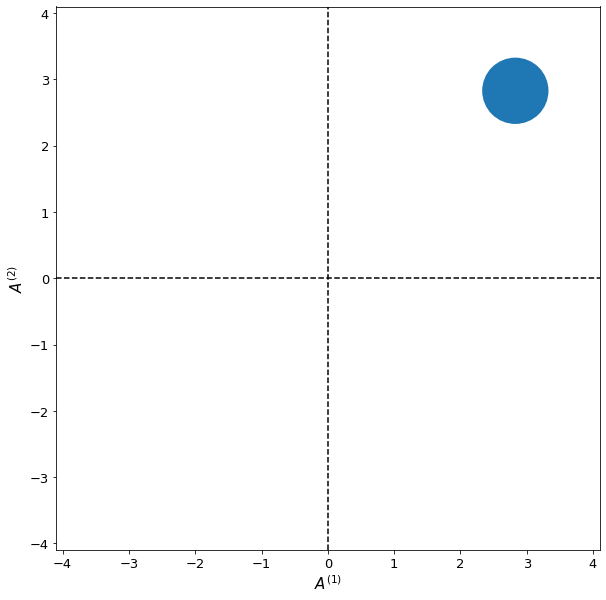
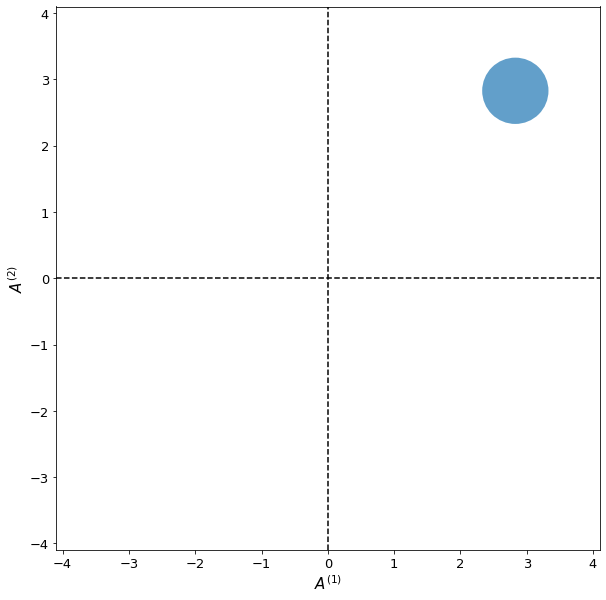
Update documentation

Changed region(s): [[0.7723, 0.09, 0.9208, 0.21]]

diff --git a/searchindex.js b/searchindex.js
@@ -1,1 +1,1 @@
-Search.setIndex({docnames:["chapter-XX-quantum-information","chapter-XX-quantum-optics-basics","intro"],envversion:{"sphinx.domains.c":2,"sphinx.domains.changeset":1,"sphinx.domains.citation":1,"sphinx.domains.cpp":4,"sphinx.domains.index":1,"sphinx.domains.javascript":2,"sphinx.domains.math":2,"sphinx.domains.python":3,"sphinx.domains.rst":2,"sphinx.domains.std":2,"sphinx.ext.intersphinx":1,"sphinxcontrib.bibtex":9,sphinx:56},filenames:["chapter-XX-quantum-information.ipynb","chapter-XX-quantum-optics-basics.md","intro.md"],objects:{},objnames:{},objtypes:{},terms:{"0":0,"00":0,"000":0,"0001":[],"001":0,"002":[],"005":[],"00_a":0,"01":0,"010":0,"011":0,"01_a":0,"05":[],"054e":0,"08":[],"0_a":0,"0_b":0,"0e":[],"0j":[],"1":1,"10":[0,1],"100":0,"1000":[0,1],"101":0,"1068636":[],"10938188e":0,"10_a":0,"11":0,"110":0,"1109":[],"111":0,"119":0,"11_a":0,"12":[],"13":1,"14":0,"1440x252":[],"15":1,"159":[],"168":[],"18":[],"180":[],"19":0,"1975":[],"1998":[],"1_a":0,"1_b":0,"1e":[],"1j":[],"2":1,"20":0,"200":[],"2000":[0,1],"21":[],"22":0,"25":1,"2944":[],"2i":1,"2n":1,"30":[],"31":0,"32":0,"323":[],"330":[],"34":0,"360":[],"4":1,"40000":[],"45":0,"4500":0,"5":1,"50":0,"500":0,"55":1,"6":[],"602e":0,"686719":[],"7":0,"891389":1,"9":0,"91699832":0,"99":[],"99792458e8":0,"byte":0,"case":[0,1],"class":0,"default":0,"do":[0,1],"export":0,"final":[0,1],"function":1,"import":[0,1],"int":[],"long":[0,1],"new":0,"public":0,"return":[],"short":[],"static":[],"true":[],"try":0,"while":1,A:[0,1],As:1,At:1,By:1,For:[0,1],IS:0,If:[0,1],In:[0,1],It:[0,1],NOT:0,No:0,On:[],One:[0,1],Such:1,THE:0,THERE:0,TO:0,That:1,The:[0,2],Then:[0,1],These:[0,1],To:0,_a:1,_b:1,_l:1,_m:1,_n:1,a0:[],a0_f:[],a1:1,a2:1,a_curr:[],a_f:[],a_m1:[],a_m1_pp:[],a_out:[],ab:0,about:[0,1],abov:[0,1],absorpt:[],access:0,account:1,achiev:[0,1],acousto:[],act:1,activ:[],active_ml:[],ad:[0,1],adagg:[],adagger_m:1,add:1,add_patch:1,add_subplot:1,add_trac:[],addit:1,adjust:[],advantag:1,after:0,again:[0,1],against:0,agre:0,ahat:[],ahat_m:1,alic:0,all:[0,1],allow:[0,1],along:[0,1],alreadi:0,also:[0,1],alwai:1,among:1,amound:[],amount:1,amplif:[],amplifi:[],amplitud:1,an:[0,1],analog:0,angel:0,angl:1,angular:1,ani:[0,1],anim:0,annihil:[],anoth:0,anyth:0,append:[],appli:0,applic:[0,1],approach:1,approx:0,approxim:[],ar:[0,1],arb:[],arctan2:[],arg:1,aris:1,arrai:0,arriv:1,artifici:[],asid:[],aspect:[],assign:[],assum:0,assumpt:[],atemp_f:[],atom:0,attent:1,au:[],auto:[],avail:[],averag:1,awai:[],ax1:[],ax2:[],ax3:[],ax:1,ax_amp:[],ax_gain:[],ax_phas:[],ax_tim:[],axhlin:1,axi:1,axvlin:[0,1],b:[0,1],back:0,balanc:[],band:[],bandpass:[],bandwdith:[],bandwidth:[],base:[],baselin:[],baseline_phas:[],basi:0,basic:2,beamsplitt:0,becaus:0,becom:[],been:[0,1],befor:1,begin:0,being:[],bell:0,below:[0,1],beta2:[],beta3:[],beta_:0,better:0,between:[0,1],big:0,bigg:[0,1],bigotim:0,binomi:0,bit:[],black:1,blit:[],block:0,blue:1,bob:0,book:[1,2],both:[0,1],bottom:[],bra:[0,1],braket:[],brief:[],broad:[],build:[],button:[],c:[0,1],c_0:0,c_1:0,c_:0,c_i:0,ca:1,calcul:1,call:0,cambridg:0,can:[0,1],cannot:1,care:[],carri:1,carrier:[],categori:[],caus:0,caviti:[],cell:[],center:1,central:[],certain:0,certainli:[0,1],challeng:0,chanc:0,chang:0,channel:0,chapter:[1,2],charg:0,check:0,chemic:[],choic:0,chose:0,chosen:[],chuang:0,circ:0,circl:[0,1],circuit:0,circular:[0,1],citi:0,cla:[],classic:[0,1],clearli:0,clearr:[],clockwis:1,close:[],cn:0,co:[0,1],code:0,coeff:[],coeffici:0,coherr:1,colab:0,collect:[],color:[0,1],colorbar:[],column:[],comb:[],come:0,commun:0,commut:1,compar:[0,1],complet:0,complex:[0,1],complimentari:0,compon:1,comput:[0,1],concept:[0,1],concern:1,condit:[0,1],configur:1,consequ:0,consid:[0,1],consist:[0,1],constant:0,construct:0,constructur:1,contain:[0,1],continu:0,contribut:[],control:0,conveni:[0,1],converg:[],convers:0,convert:[],copi:0,core:0,correct:[],correl:0,correspond:0,cost:[],could:0,counter:1,coupl:1,cours:[0,1,2],cover:[0,2],creat:0,creation:[],critic:1,crucial:0,cryptographi:0,cs:0,current:1,cursor:[],d:0,dagger:[],deal:[0,1],decreas:1,deeper:1,def:[],defin:1,definit:1,degre:0,dela1:1,dela2:1,dela:1,delai:1,delta:1,demosntr:[],denot:[],depend:[],der:[],deriv:[],describ:1,descript:[],design:1,desir:[],despit:1,destroi:0,detail:[0,1],detect:0,detector:0,determin:1,develop:1,devic:[],dictat:[],did:0,didn:0,diff:[],differ:0,difficulti:0,dimension:1,directli:1,discret:0,discuss:[0,1],dispers:[],displai:[0,1],distinguish:1,distribut:[0,1],doe:[0,1],doesn:0,doi:[],domain:0,don:[],done:[0,1],doubl:0,down:[],drawn:1,drive:0,driven:[],dt:[],due:1,durat:0,dure:0,dz:[],e:[0,1],e_envelop:[],each:[0,1],earli:0,easi:1,easili:1,eavesdrop:0,ec:1,edit:1,eec:2,effect:[],effici:0,eighti:0,either:[0,1],electr:1,electro:[],electromagnet:1,electron:0,element:[],ellips:1,elmeent:[],els:[],emploi:0,en:[],enabl:[0,1],encod:0,encourag:0,end:0,energi:1,engin:1,enough:0,ensur:0,entangl:[],entropi:0,envelop:[],environ:0,eqnarrai:0,equal:[0,1],equat:0,error:[],essenti:0,eta:0,etc:[0,1],ev:0,evcon:0,even:0,ever:1,everi:[],evolut:[],evolv:[],examin:[],exampl:[0,1],exce:[],except:0,execut:[],exercis:1,exhibit:1,exist:[],exp:[],expand:[0,1],expect:1,experiment:0,explain:0,exploit:[],explor:0,exponenti:0,express:1,extend:0,extent:[],extern:[],extra:[],f:[],fabri:[],fact:1,factor:0,fail:0,fals:[0,1],fast_sa_ml:[],faster:0,favor:[],feedback:[],femtosecond:[],few:0,feynman:0,fft:[],fftfreq:[],fftshift:[],fiber:0,field:[],fig:[0,1],figur:[0,1],fill:[],filter:[],find:0,fine:[],first:[0,1],fix:[],fixm:0,flip:0,floattext:[],floor:1,fluctiat:[],fluction:1,fluctuat:1,fly:0,focu:1,focus:1,follow:[0,1],fontsiz:[0,1],forc:[],form:[0,1],foruml:[],forward:[],found:[0,1],four:0,fourier:[],frac:[0,1],frang:[],free:0,freespac:0,frequenc:1,from:[0,1],fs:[],full:0,funcanim:[],fundament:0,further:[],furthermor:0,fwhm:[],g0:[],g:[0,1],g_0:[],gamma:[],gate:[],gaussian:[],gaussian_puls:[],gca:1,gener:1,get:[],get_ax:[],give:0,given:[0,1],glue:1,go:[0,1],goal:[],goe:0,good:0,googl:0,graph_object:[],grid:[],gvd:[],h5py:0,h:0,ha:[0,1],hadamard:0,half:0,hand:1,happen:[0,1],hard:0,harmon:[],hat:[],hau:[],have:[0,1],hbar:[0,1],header:[],heard:1,height:1,help:[],her:0,here:[0,1,2],hidden:0,high:[],higher:[],horizont:1,how:[0,1],howev:[0,1],html:0,http:[],hundr:[],hwp:0,i:[0,1],i_:[],i_sat:[],idea:0,ieee:[],ifft:[],ignor:[],illustr:0,impact:[],imped:0,imperfect:0,implement:0,impli:1,importantli:0,impract:0,improv:0,imshow:[],incid:[],includ:[0,2],inclus:[],incorpor:[],increas:1,index:[],ineffici:[],infin:[],infinit:[0,1],inform:1,infrom:0,initi:[],input:[0,1],insid:[],instal:0,instanc:[0,1],instantan:[],instead:[],int_:[],integr:[],intend:1,interact:0,interest:1,interfer:1,interpol:0,interv:0,intiial:[],intrins:1,introduc:1,introduct:[],inttext:[],intuit:[],involv:0,ipython:0,ipywidget:0,isbn:1,issu:[],iter:[],its:1,itself:1,j:0,javascript:0,john:1,joint:0,jone:0,journal:[],jqe:[],jul:[],just:[0,1],k:[0,1],kartner:[],keep:0,kei:0,keller:[],ket:0,kg:0,kind:1,know:[0,1],knowledg:0,known:[],l:0,label:[0,1],labels:[0,1],laboratori:0,langl:1,larg:1,laser:1,last:1,later:0,latex:[],launcher:0,lbrace:[0,1],ldot:1,lead:[],learn:0,leav:[0,1],left:1,legend:[0,1],len:[0,1],length:[],leq:[],let:[0,1],level:[0,1],leverag:1,life:[],light:[0,1],like:0,likewis:1,limit:1,line:[],line_gain:[],linear:[0,1],linestyl:[0,1],linewidth:0,link:0,linspac:[0,1],list:2,littl:0,ll:0,lo:0,locat:0,lock:[],log:[],log_2:0,look:[0,1],loop:[],loss:[],lossi:0,low:[],m:[0,1],m_:0,magnet:0,major:0,make:[0,1],mani:[0,1],manual:[],map:1,mar:[],mark:1,markerlin:[],markerline_phas:[],mass:0,master:[],materi:[0,1],mathbf:1,mathematica:0,mathrm:0,matplotlib:[0,1],matrix:0,matter:1,max:[],maxim:0,me:0,measur:[0,1],mechan:1,medium:[],memori:0,mental:[],messag:0,micron:[],middl:[],might:1,minimum:[],mirror:[],miss:0,mm:[],mod:[],mode:0,model:[],modern:1,modif:[],modul:[],more:[0,1],most:1,mostli:0,move:[0,1],movi:[],mpatch:1,multipli:1,must:0,myst_nb:1,n2:[],n:0,n_out:[],n_plot:[],n_save:[],n_sell:[],name:1,nanosecond:[],natur:[],nearli:[],necessarili:1,need:0,neighbor:[],net:1,nevertheless:0,newcommand:[],nielsen:0,nlse:[],nois:[0,1],noisi:0,none:1,nonlinear:[],normal:[0,1],notat:[0,1],note:[0,1],notebook:0,noth:1,now:[0,1],np:[0,1],nt:[],nt_r:[],nucleu:0,number:0,numer:[],numpi:[0,1],nz:[],o:[],obtain:[0,1],occur:0,odd:1,offset:1,often:1,ohm:0,omega:1,omega_g:[],omega_m:[],on_click:[],onc:0,one:[0,1],ones:[],onli:[0,1],onto:1,open:0,oper:0,opposit:1,optic:[0,2],optim:[],order:1,org:[],orient:0,origin:0,orthogon:0,oscil:1,other:[0,1],our:[0,1],out:1,outcom:0,output:1,over:[0,1],overcom:0,overview:1,own:[],p:0,p_0:0,p_1:0,p_2:0,p_3:0,p_:0,p_fail_1:0,p_fail_3:0,p_i:0,pair:0,parabol:[],parabola:[],paramet:[],part:1,partial:[],particl:0,particular:[0,1],pasadena:0,pass:[],past:1,patch:1,path:0,peak:[],per:1,perfectli:0,perform:1,period:[],perot:[],person:0,perturb:0,phase:[0,1],phi:[0,1],phi_c:[],photon:0,physic:[0,1],phz:[],pi:[0,1],pictur:[],place:[],plai:[],planck:0,plate:0,platform:1,plot:[0,1],plotli:[],plt:[0,1],pm:0,pmatrix:0,point:[0,1],poisson:1,polar:[0,1],popul:[0,1],possess:0,possibl:[0,1],possit:0,potenti:0,power:0,pp:[],precis:1,preferenti:[],presenc:0,present:1,press:0,prevent:[],previou:[],primari:0,principl:0,prior:[],probabilti:0,probabl:0,proce:[],procedur:0,process:0,produc:0,product:0,profici:1,profil:[],progress:0,project:[0,1],projector:0,propag:[],properti:0,propos:0,propto:[],protect:0,protocol:0,provid:1,psi:[0,1],psi_1:0,psi_2:0,psi_3:0,psi_4:0,psi_:[0,1],psi_i:0,psi_m:1,publish:[],pure:1,purpos:0,push:[],put:1,pyplot:[0,1],quadratur:1,quantiti:1,quantiz:1,quantum:[],question:1,quick:1,quit:1,r:[],rad:[],radialaxis_rang:[],radiat:[],radiu:[],rand:[],random:1,rang:0,rangl:1,rate:[],rather:[],ratio:1,rbrace:[0,1],rc:0,re:0,real:[0,1],realist:[],reason:[],recal:0,receiv:1,recit:0,recommend:[],record:[],recov:0,red:1,reduc:1,reduct:1,redund:0,ref:1,refer:0,reflect:[],regener:[],region:1,regist:0,rel:0,relat:[0,1],reliabl:0,remark:[],rememb:1,repeat:[],repetit:[],repres:[0,1],represenat:1,represent:1,requir:[0,1],reson:[],respect:1,respons:[],restor:0,result:[0,1],review:1,richard:0,right:1,rightarrow:0,rigor:1,rotat:0,round:[],row:[],run:0,s0:[],s:[0,1],s_0:[],sai:[0,1],said:[],same:[0,1],sampl:[],sat:[],satyur:[],sausalito:1,scale:[],scatterpolar:[],scheme:0,scienc:1,scipi:0,script:[],second:[],section:0,secur:1,see:[0,1],seed:[],seem:0,seen:1,self:[],sellmeier:[],sellmeier_equ:[],send:0,sensit:1,seriou:0,set:[0,1],set_aspect:1,set_size_inch:[0,1],set_titl:[],set_xlabel:1,set_xlim:1,set_ylabel:1,set_ylim:1,settl:[],setup:0,sever:1,shannon:0,shape:[],share:0,she:0,shoot:[],shorter:[],should:[0,1],show:[0,1],side:[],sift:0,signal:[0,1],similar:[],simpl:[0,1],simplest:[],simpli:1,simplifi:[],simul:0,sin:[0,1],sinc:0,singl:1,sinusoid:[],sit:0,size:[],slightli:0,slow:[],slowli:[],small:[],so:[0,1],solid:0,solut:[],solv:[],some:0,sourc:0,space:0,span:[],spatial:[],specif:0,spectra:[],speed:0,spin:0,split:[],split_step:[],spuriou:[],sql:1,sqrt:[0,1],squeezed_field_fluctu:1,stabil:[],stabilti:0,stai:1,standar:1,start:[],state:0,statist:[0,1],steadi:[],stem:[],stemlin:[],stemline_phas:[],step:[],still:[0,1],store:0,str:[],strenght:[],strength:[0,1],string:0,strong:1,studi:0,subject:[0,2],suffic:0,sum_:0,sum_i:0,sum_n:1,sum_x:0,sumat:[],summat:1,support:[],suppos:0,sure:0,surfac:1,synchron:[],system:[0,1],system_set:[],system_set_fast_sa:[],t:0,t_r:[],tab:1,take:[0,1],tau:[],taught:1,techniqu:0,teleport:[],tell:0,tempor:[],temporarili:[],ten:[],tera:0,term:0,tese:[],text:[0,1,2],textbook:1,th:[0,1],than:[0,1],thei:[0,1],theori:0,therefor:0,thermal:[],theta:[0,1],thi:[0,1,2],thing:1,think:[],those:[0,1],though:0,thousand:[],three:0,through:[0,1],throughout:1,thu:[0,1],tick_param:[0,1],time:[0,1],times2:0,timescal:[],to_jshtml:[],tod:[],togeth:1,tool:0,top:0,topic:[0,2],toself:[],townsend:1,trace:[],track:[],tracker:[],train:[],transfer:0,transform:0,transmit:1,trapz:[],treatment:1,trip:[],tukei:[],turn:1,tweak:0,two:1,tyical:[],typic:[],u:0,ubiquit:1,ultim:[],ultrafast:[],uncertainti:[0,1],uncorrel:0,under:[],underli:[],understand:1,uniformli:[],uniqu:0,unit:0,univ:0,univariatesplin:0,univers:[0,1],unknown:0,unlik:1,unlock:[],unphys:[],unrestrict:1,unsatur:[],unstabl:[],until:[],up:[],updat:0,update_polar:[],updatefig:[],us:[0,1],use_line_collect:[],uu:0,v:0,vacuum:[],valu:[0,1],vari:1,variabl:1,varianc:1,varieti:1,variou:1,variousu:[],varphi:1,vector:1,veri:1,vertic:1,violat:0,visibl:0,visual:1,vol:[],vote:0,vs:[],vv:0,w:[],w_:[],w_puls:[],w_sat:[],wa:0,wai:[0,1],want:0,want_export:0,watch:[],wave:[0,1],wavelength:[],wc:[],we:[0,1],well:[0,1],were:0,what:[0,1],when:[0,1],where:[0,1],whether:0,which:[0,1],who:1,whose:1,why:[],width:1,wiki:[],wikipedia:[],wildli:1,window:[],within:1,without:[],work:[0,1],world:1,would:[0,1],wouldn:[],wrap:[],written:[0,1],x:[0,1],x_i:0,xlabel:0,xlim:[],xx:2,y:[0,1],y_valid:[],ylabel:0,ylim:[],york:0,you:[0,1],your:0,yy:0,z:0,zero:1,zx:0},titles:["Chapter XX \u2013 Quantum Information","The Basics of Quantum Optics","6.157 \u2013 Laboratory for Quantum Information Science and Engineering"],titleterms:{"0":1,"1":0,"157":2,"2":0,"3":0,"4":0,"5":0,"6":2,"final":[],"function":0,The:1,Their:1,With:0,absorb:[],activ:[],adagg:1,adjust:[],ahat:1,alpha:1,an:[],anim:[],annihil:1,base:0,basic:1,bit:0,cell:[],chapter:0,cnot:0,coher:1,common:1,content:2,correct:0,creation:1,deviat:1,domain:[],dynam:[],engin:2,entangl:0,error:0,exampl:[],fast:[],field:1,format:[],gain:[],gate:0,hat:1,header:[],inform:[0,2],intens:[],introduct:[],ket:1,lab:[],laboratori:2,latex:[],lock:[],look:[],mean:1,mode:1,n:1,number:1,observ:1,oper:1,optic:1,output:[],packag:0,passiv:[],phase:[],photon:1,point:[],properti:1,puls:[],qkd:0,quantum:[0,1,2],qubit:0,refer:1,run:[],satur:[],scienc:2,select:[],set:[],singl:0,spectral:[],spectrum:[],squeez:1,stabl:[],standard:1,state:1,system:[],tabl:2,teleport:0,time:[],two:0,type:1,vacuum:1,variabl:0,width:[],without:0,xx:0}})
+Search.setIndex({docnames:["chapter-XX-quantum-information","chapter-XX-quantum-optics-basics","intro"],envversion:{"sphinx.domains.c":2,"sphinx.domains.changeset":1,"sphinx.domains.citation":1,"sphinx.domains.cpp":4,"sphinx.domains.index":1,"sphinx.domains.javascript":2,"sphinx.domains.math":2,"sphinx.domains.python":3,"sphinx.domains.rst":2,"sphinx.domains.std":2,"sphinx.ext.intersphinx":1,"sphinxcontrib.bibtex":9,sphinx:56},filenames:["chapter-XX-quantum-information.ipynb","chapter-XX-quantum-optics-basics.md","intro.md"],objects:{},objnames:{},objtypes:{},terms:{"0":0,"00":0,"000":0,"0001":[],"001":0,"002":[],"005":[],"00_a":0,"01":0,"010":0,"011":0,"01_a":0,"05":[],"054e":0,"08":[],"0_a":0,"0_b":0,"0e":[],"0j":[],"1":1,"10":[0,1],"100":0,"1000":[0,1],"101":0,"1068636":[],"10938188e":0,"10_a":0,"11":0,"110":0,"1109":[],"111":0,"119":0,"11_a":0,"12":[],"13":1,"14":0,"1440x252":[],"15":1,"159":[],"168":[],"18":[],"180":[],"19":0,"1975":[],"1998":[],"1_a":0,"1_b":0,"1e":[],"1j":[],"2":1,"20":0,"200":[],"2000":[0,1],"21":[],"22":0,"25":1,"2944":[],"2i":1,"2n":1,"30":[],"31":0,"32":0,"323":[],"330":[],"34":0,"360":[],"4":1,"40000":[],"45":0,"4500":0,"5":1,"50":0,"500":0,"55":1,"6":[],"602e":0,"686719":[],"7":[0,1],"891389":1,"9":0,"91699832":0,"99":[],"99792458e8":0,"byte":0,"case":[0,1],"class":0,"default":0,"do":[0,1],"export":0,"final":[0,1],"function":1,"import":[0,1],"int":[],"long":[0,1],"new":0,"public":0,"return":[],"short":[],"static":[],"true":[],"try":0,"while":1,A:[0,1],As:1,At:1,By:1,For:[0,1],IS:0,If:[0,1],In:[0,1],It:[0,1],NOT:0,No:0,On:[],One:[0,1],Such:1,THE:0,THERE:0,TO:0,That:1,The:[0,2],Then:[0,1],These:[0,1],To:0,_a:1,_b:1,_l:1,_m:1,_n:1,a0:[],a0_f:[],a1:1,a2:1,a_curr:[],a_f:[],a_m1:[],a_m1_pp:[],a_out:[],ab:0,about:[0,1],abov:[0,1],absorpt:[],access:0,account:1,achiev:[0,1],acousto:[],act:1,activ:[],active_ml:[],ad:[0,1],adagg:[],adagger_m:1,add:1,add_patch:1,add_subplot:1,add_trac:[],addit:1,adjust:[],advantag:1,after:0,again:[0,1],against:0,agre:0,ahat:[],ahat_m:1,alic:0,all:[0,1],allow:[0,1],along:[0,1],alreadi:0,also:[0,1],alwai:1,among:1,amound:[],amount:1,amplif:[],amplifi:[],amplitud:1,an:[0,1],analog:0,angel:0,angl:1,angular:1,ani:[0,1],anim:0,annihil:[],anoth:0,anyth:0,append:[],appli:0,applic:[0,1],approach:1,approx:0,approxim:[],ar:[0,1],arb:[],arctan2:[],arg:1,aris:1,arrai:0,arriv:1,artifici:[],asid:[],aspect:[],assign:[],assum:0,assumpt:[],atemp_f:[],atom:0,attent:1,au:[],auto:[],avail:[],averag:1,awai:[],ax1:[],ax2:[],ax3:[],ax:1,ax_amp:[],ax_gain:[],ax_phas:[],ax_tim:[],axhlin:1,axi:1,axvlin:[0,1],b:[0,1],back:0,balanc:[],band:[],bandpass:[],bandwdith:[],bandwidth:[],base:[],baselin:[],baseline_phas:[],basi:0,basic:2,beamsplitt:0,becaus:0,becom:[],been:[0,1],befor:1,begin:0,being:[],bell:0,below:[0,1],beta2:[],beta3:[],beta_:0,better:0,between:[0,1],big:0,bigg:[0,1],bigotim:0,binomi:0,bit:[],black:1,blit:[],block:0,blue:1,bob:0,book:[1,2],both:[0,1],bottom:[],bra:[0,1],braket:[],brief:[],broad:[],build:[],button:[],c:[0,1],c_0:0,c_1:0,c_:0,c_i:0,ca:1,calcul:1,call:0,cambridg:0,can:[0,1],cannot:1,care:[],carri:1,carrier:[],categori:[],caus:0,caviti:[],cell:[],center:1,central:[],certain:0,certainli:[0,1],challeng:0,chanc:0,chang:0,channel:0,chapter:[1,2],charg:0,check:0,chemic:[],choic:0,chose:0,chosen:[],chuang:0,circ:0,circl:[0,1],circuit:0,circular:[0,1],citi:0,cla:[],classic:[0,1],clearli:0,clearr:[],clockwis:1,close:[],cn:0,co:[0,1],code:0,coeff:[],coeffici:0,coherr:1,colab:0,collect:[],color:[0,1],colorbar:[],column:[],comb:[],come:0,commun:0,commut:1,compar:[0,1],complet:0,complex:[0,1],complimentari:0,compon:1,comput:[0,1],concept:[0,1],concern:1,condit:[0,1],configur:1,consequ:0,consid:[0,1],consist:[0,1],constant:0,construct:0,constructur:1,contain:[0,1],continu:0,contribut:[],control:0,conveni:[0,1],converg:[],convers:0,convert:[],copi:0,core:0,correct:[],correl:0,correspond:0,cost:[],could:0,counter:1,coupl:1,cours:[0,1,2],cover:[0,2],creat:0,creation:[],critic:1,crucial:0,cryptographi:0,cs:0,current:1,cursor:[],d:0,dagger:[],deal:[0,1],decreas:1,deeper:1,def:[],defin:1,definit:1,degre:0,dela1:1,dela2:1,dela:1,delai:1,delta:1,demosntr:[],denot:[],depend:[],der:[],deriv:[],describ:1,descript:[],design:1,desir:[],despit:1,destroi:0,detail:[0,1],detect:0,detector:0,determin:1,develop:1,devic:[],dictat:[],did:0,didn:0,diff:[],differ:0,difficulti:0,dimension:1,directli:1,discret:0,discuss:[0,1],dispers:[],displai:[0,1],distinguish:1,distribut:[0,1],doe:[0,1],doesn:0,doi:[],domain:0,don:[],done:[0,1],doubl:0,down:[],drawn:1,drive:0,driven:[],dt:[],due:1,durat:0,dure:0,dz:[],e:[0,1],e_envelop:[],each:[0,1],earli:0,easi:1,easili:1,eavesdrop:0,ec:1,edit:1,eec:2,effect:[],effici:0,eighti:0,either:[0,1],electr:1,electro:[],electromagnet:1,electron:0,element:[],ellips:1,elmeent:[],els:[],emploi:0,en:[],enabl:[0,1],encod:0,encourag:0,end:0,energi:1,engin:1,enough:0,ensur:0,entangl:[],entropi:0,envelop:[],environ:0,eqnarrai:0,equal:[0,1],equat:0,error:[],essenti:0,eta:0,etc:[0,1],ev:0,evcon:0,even:0,ever:1,everi:[],evolut:[],evolv:[],examin:[],exampl:[0,1],exce:[],except:0,execut:[],exercis:1,exhibit:1,exist:[],exp:[],expand:[0,1],expect:1,experiment:0,explain:0,exploit:[],explor:0,exponenti:0,express:1,extend:0,extent:[],extern:[],extra:[],f:[],fabri:[],fact:1,factor:0,fail:0,fals:[0,1],fast_sa_ml:[],faster:0,favor:[],feedback:[],femtosecond:[],few:0,feynman:0,fft:[],fftfreq:[],fftshift:[],fiber:0,field:[],fig:[0,1],figur:[0,1],fill:[],filter:[],find:0,fine:[],first:[0,1],fix:[],fixm:0,flip:0,floattext:[],floor:1,fluctiat:[],fluction:1,fluctuat:1,fly:0,focu:1,focus:1,follow:[0,1],fontsiz:[0,1],forc:[],form:[0,1],foruml:[],forward:[],found:[0,1],four:0,fourier:[],frac:[0,1],frang:[],free:0,freespac:0,frequenc:1,from:[0,1],fs:[],full:0,funcanim:[],fundament:0,further:[],furthermor:0,fwhm:[],g0:[],g:[0,1],g_0:[],gamma:[],gate:[],gaussian:[],gaussian_puls:[],gca:1,gener:1,get:[],get_ax:[],give:0,given:[0,1],glue:1,go:[0,1],goal:[],goe:0,good:0,googl:0,graph_object:[],grid:[],gvd:[],h5py:0,h:0,ha:[0,1],hadamard:0,half:0,hand:1,happen:[0,1],hard:0,harmon:[],hat:[],hau:[],have:[0,1],hbar:[0,1],header:[],heard:1,height:1,help:[],her:0,here:[0,1,2],hidden:0,high:[],higher:[],horizont:1,how:[0,1],howev:[0,1],html:0,http:[],hundr:[],hwp:0,i:[0,1],i_:[],i_sat:[],idea:0,ieee:[],ifft:[],ignor:[],illustr:0,impact:[],imped:0,imperfect:0,implement:0,impli:1,importantli:0,impract:0,improv:0,imshow:[],incid:[],includ:[0,2],inclus:[],incorpor:[],increas:1,index:[],ineffici:[],infin:[],infinit:[0,1],inform:1,infrom:0,initi:[],input:[0,1],insid:[],instal:0,instanc:[0,1],instantan:[],instead:[],int_:[],integr:[],intend:1,interact:0,interest:1,interfer:1,interpol:0,interv:0,intiial:[],intrins:1,introduc:1,introduct:[],inttext:[],intuit:[],involv:0,ipython:0,ipywidget:0,isbn:1,issu:[],iter:[],its:1,itself:1,j:0,javascript:0,john:1,joint:0,jone:0,journal:[],jqe:[],jul:[],just:[0,1],k:[0,1],kartner:[],keep:0,kei:0,keller:[],ket:0,kg:0,kind:1,know:[0,1],knowledg:0,known:[],l:0,label:[0,1],labels:[0,1],laboratori:0,langl:1,larg:1,laser:1,last:1,later:0,latex:[],launcher:0,lbrace:[0,1],ldot:1,lead:[],learn:0,leav:[0,1],left:1,legend:[0,1],len:[0,1],length:[],leq:[],let:[0,1],level:[0,1],leverag:1,life:[],light:[0,1],like:0,likewis:1,limit:1,line:[],line_gain:[],linear:[0,1],linestyl:[0,1],linewidth:0,link:0,linspac:[0,1],list:2,littl:0,ll:0,lo:0,locat:0,lock:[],log:[],log_2:0,look:[0,1],loop:[],loss:[],lossi:0,low:[],m:[0,1],m_:0,magnet:0,major:0,make:[0,1],mani:[0,1],manual:[],map:1,mar:[],mark:1,markerlin:[],markerline_phas:[],mass:0,master:[],materi:[0,1],mathbf:1,mathematica:0,mathrm:0,matplotlib:[0,1],matrix:0,matter:1,max:[],maxim:0,me:0,measur:[0,1],mechan:1,medium:[],memori:0,mental:[],messag:0,micron:[],middl:[],might:1,minimum:[],mirror:[],miss:0,mm:[],mod:[],mode:0,model:[],modern:1,modif:[],modul:[],more:[0,1],most:1,mostli:0,move:[0,1],movi:[],mpatch:1,multipli:1,must:0,myst_nb:1,n2:[],n:0,n_out:[],n_plot:[],n_save:[],n_sell:[],name:1,nanosecond:[],natur:[],nearli:[],necessarili:1,need:0,neighbor:[],net:1,nevertheless:0,newcommand:[],nielsen:0,nlse:[],nois:[0,1],noisi:0,none:1,nonlinear:[],normal:[0,1],notat:[0,1],note:[0,1],notebook:0,noth:1,now:[0,1],np:[0,1],nt:[],nt_r:[],nucleu:0,number:0,numer:[],numpi:[0,1],nz:[],o:[],obtain:[0,1],occur:0,odd:1,offset:1,often:1,ohm:0,omega:1,omega_g:[],omega_m:[],on_click:[],onc:0,one:[0,1],ones:[],onli:[0,1],onto:1,open:0,oper:0,opposit:1,optic:[0,2],optim:[],order:1,org:[],orient:0,origin:0,orthogon:0,oscil:1,other:[0,1],our:[0,1],out:1,outcom:0,output:1,over:[0,1],overcom:0,overview:1,own:[],p:0,p_0:0,p_1:0,p_2:0,p_3:0,p_:0,p_fail_1:0,p_fail_3:0,p_i:0,pair:0,parabol:[],parabola:[],paramet:[],part:1,partial:[],particl:0,particular:[0,1],pasadena:0,pass:[],past:1,patch:1,path:0,peak:[],per:1,perfectli:0,perform:1,period:[],perot:[],person:0,perturb:0,phase:[0,1],phi:[0,1],phi_c:[],photon:0,physic:[0,1],phz:[],pi:[0,1],pictur:[],place:[],plai:[],planck:0,plate:0,platform:1,plot:[0,1],plotli:[],plt:[0,1],pm:0,pmatrix:0,point:[0,1],poisson:1,polar:[0,1],popul:[0,1],possess:0,possibl:[0,1],possit:0,potenti:0,power:0,pp:[],precis:1,preferenti:[],presenc:0,present:1,press:0,prevent:[],previou:[],primari:0,principl:0,prior:[],probabilti:0,probabl:0,proce:[],procedur:0,process:0,produc:0,product:0,profici:1,profil:[],progress:0,project:[0,1],projector:0,propag:[],properti:0,propos:0,propto:[],protect:0,protocol:0,provid:1,psi:[0,1],psi_1:0,psi_2:0,psi_3:0,psi_4:0,psi_:[0,1],psi_i:0,psi_m:1,publish:[],pure:1,purpos:0,push:[],put:1,pyplot:[0,1],quadratur:1,quantiti:1,quantiz:1,quantum:[],question:1,quick:1,quit:1,r:[],rad:[],radialaxis_rang:[],radiat:[],radiu:[],rand:[],random:1,rang:0,rangl:1,rate:[],rather:[],ratio:1,rbrace:[0,1],rc:0,re:0,real:[0,1],realist:[],reason:[],recal:0,receiv:1,recit:0,recommend:[],record:[],recov:0,red:1,reduc:1,reduct:1,redund:0,ref:1,refer:0,reflect:[],regener:[],region:1,regist:0,rel:0,relat:[0,1],reliabl:0,remark:[],rememb:1,repeat:[],repetit:[],repres:[0,1],represenat:1,represent:1,requir:[0,1],reson:[],respect:1,respons:[],restor:0,result:[0,1],review:1,richard:0,right:1,rightarrow:0,rigor:1,rotat:0,round:[],row:[],run:0,s0:[],s:[0,1],s_0:[],sai:[0,1],said:[],same:[0,1],sampl:[],sat:[],satyur:[],sausalito:1,scale:[],scatterpolar:[],scheme:0,scienc:1,scipi:0,script:[],second:[],section:0,secur:1,see:[0,1],seed:[],seem:0,seen:1,self:[],sellmeier:[],sellmeier_equ:[],send:0,sensit:1,seriou:0,set:[0,1],set_aspect:1,set_size_inch:[0,1],set_titl:[],set_xlabel:1,set_xlim:1,set_ylabel:1,set_ylim:1,settl:[],setup:0,sever:1,shannon:0,shape:[],share:0,she:0,shoot:[],shorter:[],should:[0,1],show:[0,1],side:[],sift:0,signal:[0,1],similar:[],simpl:[0,1],simplest:[],simpli:1,simplifi:[],simul:0,sin:[0,1],sinc:0,singl:1,sinusoid:[],sit:0,size:[],slightli:0,slow:[],slowli:[],small:[],so:[0,1],solid:0,solut:[],solv:[],some:0,sourc:0,space:0,span:[],spatial:[],specif:0,spectra:[],speed:0,spin:0,split:[],split_step:[],spuriou:[],sql:1,sqrt:[0,1],squeezed_field_fluctu:1,stabil:[],stabilti:0,stai:1,standar:1,start:[],state:0,statist:[0,1],steadi:[],stem:[],stemlin:[],stemline_phas:[],step:[],still:[0,1],store:0,str:[],strenght:[],strength:[0,1],string:0,strong:1,studi:0,subject:[0,2],suffic:0,sum_:0,sum_i:0,sum_n:1,sum_x:0,sumat:[],summat:1,support:[],suppos:0,sure:0,surfac:1,synchron:[],system:[0,1],system_set:[],system_set_fast_sa:[],t:0,t_r:[],tab:1,take:[0,1],tau:[],taught:1,techniqu:0,teleport:[],tell:0,tempor:[],temporarili:[],ten:[],tera:0,term:0,tese:[],text:[0,1,2],textbook:1,th:[0,1],than:[0,1],thei:[0,1],theori:0,therefor:0,thermal:[],theta:[0,1],thi:[0,1,2],thing:1,think:[],those:[0,1],though:0,thousand:[],three:0,through:[0,1],throughout:1,thu:[0,1],tick_param:[0,1],time:[0,1],times2:0,timescal:[],to_jshtml:[],tod:[],togeth:1,tool:0,top:0,topic:[0,2],toself:[],townsend:1,trace:[],track:[],tracker:[],train:[],transfer:0,transform:0,transmit:1,trapz:[],treatment:1,trip:[],tukei:[],turn:1,tweak:0,two:1,tyical:[],typic:[],u:0,ubiquit:1,ultim:[],ultrafast:[],uncertainti:[0,1],uncorrel:0,under:[],underli:[],understand:1,uniformli:[],uniqu:0,unit:0,univ:0,univariatesplin:0,univers:[0,1],unknown:0,unlik:1,unlock:[],unphys:[],unrestrict:1,unsatur:[],unstabl:[],until:[],up:[],updat:0,update_polar:[],updatefig:[],us:[0,1],use_line_collect:[],uu:0,v:0,vacuum:[],valu:[0,1],vari:1,variabl:1,varianc:1,varieti:1,variou:1,variousu:[],varphi:1,vector:1,veri:1,vertic:1,violat:0,visibl:0,visual:1,vol:[],vote:0,vs:[],vv:0,w:[],w_:[],w_puls:[],w_sat:[],wa:0,wai:[0,1],want:0,want_export:0,watch:[],wave:[0,1],wavelength:[],wc:[],we:[0,1],well:[0,1],were:0,what:[0,1],when:[0,1],where:[0,1],whether:0,which:[0,1],who:1,whose:1,why:[],width:1,wiki:[],wikipedia:[],wildli:1,window:[],within:1,without:[],work:[0,1],world:1,would:[0,1],wouldn:[],wrap:[],written:[0,1],x:[0,1],x_i:0,xlabel:0,xlim:[],xx:2,y:[0,1],y_valid:[],ylabel:0,ylim:[],york:0,you:[0,1],your:0,yy:0,z:0,zero:1,zx:0},titles:["Chapter XX \u2013 Quantum Information","The Basics of Quantum Optics","6.157 \u2013 Laboratory for Quantum Information Science and Engineering"],titleterms:{"0":1,"1":0,"157":2,"2":0,"3":0,"4":0,"5":0,"6":2,"final":[],"function":0,The:1,Their:1,With:0,absorb:[],activ:[],adagg:1,adjust:[],ahat:1,alpha:1,an:[],anim:[],annihil:1,base:0,basic:1,bit:0,cell:[],chapter:0,cnot:0,coher:1,common:1,content:2,correct:0,creation:1,deviat:1,domain:[],dynam:[],engin:2,entangl:0,error:0,exampl:[],fast:[],field:1,format:[],gain:[],gate:0,hat:1,header:[],inform:[0,2],intens:[],introduct:[],ket:1,lab:[],laboratori:2,latex:[],lock:[],look:[],mean:1,mode:1,n:1,number:1,observ:1,oper:1,optic:1,output:[],packag:0,passiv:[],phase:[],photon:1,point:[],properti:1,puls:[],qkd:0,quantum:[0,1,2],qubit:0,refer:1,run:[],satur:[],scienc:2,select:[],set:[],singl:0,spectral:[],spectrum:[],squeez:1,stabl:[],standard:1,state:1,system:[],tabl:2,teleport:0,time:[],two:0,type:1,vacuum:1,variabl:0,width:[],without:0,xx:0}})

diff --git a/chapter-XX-quantum-optics-basics.html b/chapter-XX-quantum-optics-basics.html
@@ -528,7 +528,12 @@ const thebe_selector_output = ".output, .cell_output"
 
 
 <span class="c1"># add a circle</span>
-<span class="n">patch</span> <span class="o">=</span> <span class="n">mpatches</span><span class="o">.</span><span class="n">Ellipse</span><span class="p">((</span><span class="n">A1</span><span class="p">,</span> <span class="n">A2</span><span class="p">),</span> <span class="n">width</span><span class="o">=</span><span class="n">delA</span><span class="o">*</span><span class="mi">2</span><span class="p">,</span> <span class="n">height</span><span class="o">=</span><span class="n">delA</span><span class="o">*</span><span class="mi">2</span><span class="p">,</span> <span class="n">ec</span><span class="o">=</span><span class="s2">&quot;none&quot;</span><span class="p">,</span> <span class="n">color</span><span class="o">=</span><span class="s1">&#39;tab:blue&#39;</span><span class="p">)</span>
+<span class="n">patch</span> <span class="o">=</span> <span class="n">mpatches</span><span class="o">.</span><span class="n">Ellipse</span><span class="p">((</span><span class="n">A1</span><span class="p">,</span> <span class="n">A2</span><span class="p">),</span> 
+                         <span class="n">width</span><span class="o">=</span><span class="n">delA</span><span class="o">*</span><span class="mi">2</span><span class="p">,</span> 
+                         <span class="n">height</span><span class="o">=</span><span class="n">delA</span><span class="o">*</span><span class="mi">2</span><span class="p">,</span> 
+                         <span class="n">ec</span><span class="o">=</span><span class="s2">&quot;none&quot;</span><span class="p">,</span> 
+                         <span class="n">color</span><span class="o">=</span><span class="s1">&#39;tab:blue&#39;</span><span class="p">,</span>
+                         <span class="n">alpha</span><span class="o">=</span><span class="mf">0.7</span><span class="p">)</span>
 <span class="n">ax</span><span class="o">.</span><span class="n">add_patch</span><span class="p">(</span><span class="n">patch</span><span class="p">)</span>
 <span class="n">ax</span><span class="o">.</span><span class="n">set_xlim</span><span class="p">(</span><span class="o">-</span><span class="mf">5.1</span><span class="p">,</span> <span class="mf">5.1</span><span class="p">)</span>
 <span class="n">ax</span><span class="o">.</span><span class="n">set_ylim</span><span class="p">(</span><span class="o">-</span><span class="mf">5.1</span><span class="p">,</span> <span class="mf">5.1</span><span class="p">)</span>
@@ -609,7 +614,12 @@ const thebe_selector_output = ".output, .cell_output"
 <span class="n">A2</span> <span class="o">=</span> <span class="n">A</span><span class="o">*</span><span class="n">np</span><span class="o">.</span><span class="n">sin</span><span class="p">(</span><span class="n">phi</span><span class="p">)</span>
 
 <span class="c1"># add a circle</span>
-<span class="n">patch</span> <span class="o">=</span> <span class="n">mpatches</span><span class="o">.</span><span class="n">Ellipse</span><span class="p">((</span><span class="n">A1</span><span class="p">,</span> <span class="n">A2</span><span class="p">),</span> <span class="n">width</span><span class="o">=</span><span class="n">delA</span><span class="o">*</span><span class="mi">2</span><span class="p">,</span> <span class="n">height</span><span class="o">=</span><span class="n">delA</span><span class="o">*</span><span class="mi">2</span><span class="p">,</span> <span class="n">ec</span><span class="o">=</span><span class="s2">&quot;none&quot;</span><span class="p">,</span> <span class="n">color</span><span class="o">=</span><span class="s1">&#39;tab:blue&#39;</span><span class="p">)</span>
+<span class="n">patch</span> <span class="o">=</span> <span class="n">mpatches</span><span class="o">.</span><span class="n">Ellipse</span><span class="p">((</span><span class="n">A1</span><span class="p">,</span> <span class="n">A2</span><span class="p">),</span> 
+                         <span class="n">width</span><span class="o">=</span><span class="n">delA</span><span class="o">*</span><span class="mi">2</span><span class="p">,</span> 
+                         <span class="n">height</span><span class="o">=</span><span class="n">delA</span><span class="o">*</span><span class="mi">2</span><span class="p">,</span> 
+                         <span class="n">ec</span><span class="o">=</span><span class="s2">&quot;none&quot;</span><span class="p">,</span> 
+                         <span class="n">color</span><span class="o">=</span><span class="s1">&#39;tab:blue&#39;</span><span class="p">,</span>
+                        <span class="n">alpha</span><span class="o">=</span><span class="mf">0.7</span><span class="p">)</span>
 <span class="n">ax</span><span class="o">.</span><span class="n">add_patch</span><span class="p">(</span><span class="n">patch</span><span class="p">)</span>
 <span class="n">ax</span><span class="o">.</span><span class="n">set_xlim</span><span class="p">(</span><span class="o">-</span><span class="mf">4.1</span><span class="p">,</span> <span class="mf">4.1</span><span class="p">)</span>
 <span class="n">ax</span><span class="o">.</span><span class="n">set_ylim</span><span class="p">(</span><span class="o">-</span><span class="mf">4.1</span><span class="p">,</span> <span class="mf">4.1</span><span class="p">)</span>
@@ -664,7 +674,12 @@ const thebe_selector_output = ".output, .cell_output"
 <span class="n">A2</span> <span class="o">=</span> <span class="mi">0</span>
 
 <span class="c1"># add a circle</span>
-<span class="n">patch</span> <span class="o">=</span> <span class="n">mpatches</span><span class="o">.</span><span class="n">Ellipse</span><span class="p">((</span><span class="n">A1</span><span class="p">,</span> <span class="n">A2</span><span class="p">),</span> <span class="n">width</span><span class="o">=</span><span class="n">delA1</span><span class="o">*</span><span class="mi">2</span><span class="p">,</span> <span class="n">height</span><span class="o">=</span><span class="n">delA2</span><span class="o">*</span><span class="mi">2</span><span class="p">,</span> <span class="n">ec</span><span class="o">=</span><span class="s2">&quot;none&quot;</span><span class="p">,</span> <span class="n">color</span><span class="o">=</span><span class="s1">&#39;tab:blue&#39;</span><span class="p">,</span> <span class="n">alpha</span><span class="o">=</span><span class="mf">0.5</span><span class="p">)</span>
+<span class="n">patch</span> <span class="o">=</span> <span class="n">mpatches</span><span class="o">.</span><span class="n">Ellipse</span><span class="p">((</span><span class="n">A1</span><span class="p">,</span> <span class="n">A2</span><span class="p">),</span> 
+                         <span class="n">width</span><span class="o">=</span><span class="n">delA1</span><span class="o">*</span><span class="mi">2</span><span class="p">,</span> 
+                         <span class="n">height</span><span class="o">=</span><span class="n">delA2</span><span class="o">*</span><span class="mi">2</span><span class="p">,</span> 
+                         <span class="n">ec</span><span class="o">=</span><span class="s2">&quot;none&quot;</span><span class="p">,</span> 
+                         <span class="n">color</span><span class="o">=</span><span class="s1">&#39;tab:blue&#39;</span><span class="p">,</span> 
+                         <span class="n">alpha</span><span class="o">=</span><span class="mf">0.5</span><span class="p">)</span>
 <span class="n">ax</span><span class="o">.</span><span class="n">add_patch</span><span class="p">(</span><span class="n">patch</span><span class="p">)</span>
 
 
@@ -752,12 +767,13 @@ const thebe_selector_output = ".output, .cell_output"
 </div>
 <div class="section" id="references">
 <h2>References<a class="headerlink" href="#references" title="Permalink to this headline">¶</a></h2>
-<p id="id2"><dl class="citation">
+<div class="docutils container" id="id2">
+<dl class="citation">
 <dt class="label" id="id3"><span class="brackets"><a class="fn-backref" href="#id1">1</a></span></dt>
 <dd><p>John S. Townsend. <em>A Modern Approach to Quantum Mechanics</em>. University Science Books, Sausalito, CA, first edition, 2000. ISBN 1-891389-13-0.</p>
 </dd>
 </dl>
-</p>
+</div>
 </div>
 </div>
 

diff --git a/_static/togglebutton.css b/_static/togglebutton.css
@@ -64,14 +64,24 @@ button.toggle-button {
     stroke: currentColor;  /* So that we inherit the color of other text */
 }
 
-details.toggle-details .tb-icon {
-    height: 1.3em;
-    width: 1.3em;
+/* Rotate icon with admonitions so that it points down */
+.admonition.toggle .tb-icon {
+    transform: rotate(-90deg);
 }
 
-.toggle-button-hidden .tb-icon {
-    transform: rotate(90deg);
+/* When the admonition is hidden, icon should flip upwards but retain rotation */
+/* We scaleX, in order to flip along Y, because it is rotated */
+.admonition.toggle .toggle-button-hidden .tb-icon {
+    transform: rotate(-90deg) scaleX(-1);
 }
+
+/* With details toggles, we don't rotate the icon so it points right */
+details.toggle-details .tb-icon {
+    height: 1.4em;
+    width: 1.4em;
+    margin-top: 0.1em;  /* To center the button vertically */
+}
+
 
 /**
  * Details-based toggles.
@@ -92,8 +102,12 @@ details.toggle-details summary {
     border-radius: .4em;
     border: 1px solid #ccc;
     background: #f8f8f8;
-    padding: 0.4em 1em 0.4em 0.5em; /* Less padding on left because the SVG has left margin */
-    font-size: .9em;
+    padding: 0.2em 0.7em 0.3em 0.5em; /* Less padding on left because the SVG has left margin */
+    font-size: 0.8em;
+}
+
+.toggle-details__summary-text {
+    margin-left: 0.2em;
 }
 
 details.toggle-details summary:hover {

diff --git a/_static/togglebutton.js b/_static/togglebutton.js
@@ -25,7 +25,7 @@ var initToggleItems = () => {
       }
       // This is the button that will be added to each item to trigger the toggle
       var collapseButton = `
-        <button type="button" id="${buttonID}" class="toggle-button" data-target="${toggleID}" data-button="${buttonID}", data-toggle-hint="${toggleHintShow}">
+        <button type="button" id="${buttonID}" class="toggle-button" data-target="${toggleID}" data-button="${buttonID}" data-toggle-hint="${toggleHintShow}" aria-label="Click to toggle content">
             ${toggleChevron}
         </button>`;
 
@@ -50,9 +50,9 @@ var initToggleItems = () => {
       // Define the structure of the details block and insert it as a sibling
       var detailsBlock = `
         <details class="toggle-details">
-            <summary>
+            <summary class="toggle-details__summary">
               ${toggleChevron}
-              <span>${toggleHintShow}</span>
+              <span class="toggle-details__summary-text">${toggleHintShow}</span>
             </summary>
         </details>`;
       item.insertAdjacentHTML("beforebegin", detailsBlock);

diff --git a/_sources/chapter-XX-quantum-optics-basics.md b/_sources/chapter-XX-quantum-optics-basics.md
@@ -5,7 +5,7 @@ jupytext:
     extension: .md
     format_name: myst
     format_version: 0.13
-    jupytext_version: 1.11.5
+    jupytext_version: 1.13.8
 kernelspec:
   display_name: Python 3 (ipykernel)
   language: python
@@ -54,7 +54,7 @@ While we will introduce several quantum engineering platforms in this course, a 
 
 Often we deal with optical signals whose fields oscillate at a single angular frequency $\omega$.  At any given frequency, an optical signal can be written as a summation of modes.  These modes are distinguished by a variety of properties, such as their wave-vector $\mathbf{k}$ or polarization (e.g. linear horizontal, linear vertical, right-hand circular, etc.).  
 
-In most cases, each input or output signal populates a single mode.  
+In most cases, each input or output signal populates a single mode.
 
 +++
 
@@ -124,7 +124,7 @@ $\bra{\psi}_m\hat{N}_m\ket{\psi}_m$.
 
 Using the properties of $\ahat$ and $\adagger$, you can easily show that:
 
-$\bra{N}_m \hat{N}_m \ket{N}_m = N$.  
+$\bra{N}_m \hat{N}_m \ket{N}_m = N$.
 
 +++
 
@@ -216,7 +216,12 @@ A2 = A*np.sin(phi)
 
 
 # add a circle
-patch = mpatches.Ellipse((A1, A2), width=delA*2, height=delA*2, ec="none", color='tab:blue')
+patch = mpatches.Ellipse((A1, A2), 
+                         width=delA*2, 
+                         height=delA*2, 
+                         ec="none", 
+                         color='tab:blue',
+                         alpha=0.7)
 ax.add_patch(patch)
 ax.set_xlim(-5.1, 5.1)
 ax.set_ylim(-5.1, 5.1)
@@ -290,7 +295,7 @@ $$ \Delta A^{(\theta)} = 1/2.$$
 
 The last part is interesting as it means that no matter how large alpha is, the field fluctuations stay the same, and are the same level as that of a vacuum state.   This is due to the fact that phase is very well defined for a coherent state, while the fields can still fluctuate (the opposite of a number state).  
 
-Again, it we can map out the field representation, which we have done below for a coherent state with $|\alpha| = 4$, and $\varphi = \pi/4$.  
+Again, it we can map out the field representation, which we have done below for a coherent state with $|\alpha| = 4$, and $\varphi = \pi/4$.
 
 ```{code-cell} ipython3
 :tags: [hide-input]
@@ -311,7 +316,12 @@ A1 = A*np.cos(phi)
 A2 = A*np.sin(phi)
 
 # add a circle
-patch = mpatches.Ellipse((A1, A2), width=delA*2, height=delA*2, ec="none", color='tab:blue')
+patch = mpatches.Ellipse((A1, A2), 
+                         width=delA*2, 
+                         height=delA*2, 
+                         ec="none", 
+                         color='tab:blue',
+                        alpha=0.7)
 ax.add_patch(patch)
 ax.set_xlim(-4.1, 4.1)
 ax.set_ylim(-4.1, 4.1)
@@ -368,7 +378,12 @@ A1 = 0
 A2 = 0
 
 # add a circle
-patch = mpatches.Ellipse((A1, A2), width=delA1*2, height=delA2*2, ec="none", color='tab:blue', alpha=0.5)
+patch = mpatches.Ellipse((A1, A2), 
+                         width=delA1*2, 
+                         height=delA2*2, 
+                         ec="none", 
+                         color='tab:blue', 
+                         alpha=0.5)
 ax.add_patch(patch)
 
 
@@ -402,7 +417,7 @@ fig.set_size_inches(10, 10)
 
 For $s = 0$ (the red circle), the state is nothing more than the vacuum state.  However, when $s = 0.25$ we arrive at the blue ellipse, where the fluctuations along $A^{(1)}$ have been reduced, while those along $A^{(2)}$ have been increased.  **As engineers, we can design systems that are only sensitive to the fields in one of the two quadratures, thus enabling measurements below the noise floor set by the standard quantum limit (SQL, which is represented by the vacuum state here with $s = 0$).  We will discuss such measurements in detail.**
 
-One final question of interest for $\ket{\psi_s}$ is what happens to the noise along the two quadratures $A^{(1)}$ and $A^{(2)}$ and how does this noise compare to the standard quantum limit (SQL) as we let $s$ vary from 0 to 1.  
+One final question of interest for $\ket{\psi_s}$ is what happens to the noise along the two quadratures $A^{(1)}$ and $A^{(2)}$ and how does this noise compare to the standard quantum limit (SQL) as we let $s$ vary from 0 to 1.
 
 ```{code-cell} ipython3
 :tags: [hide-cell]
